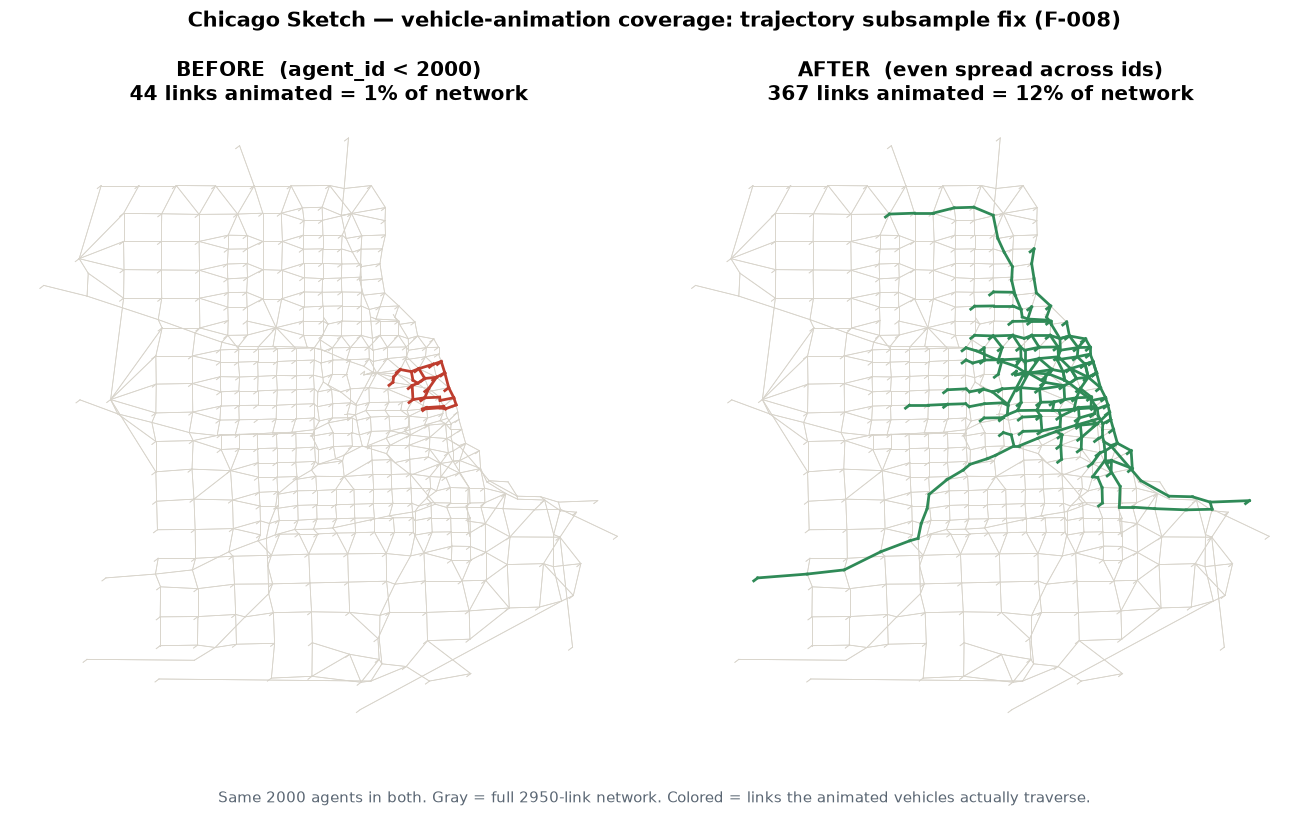
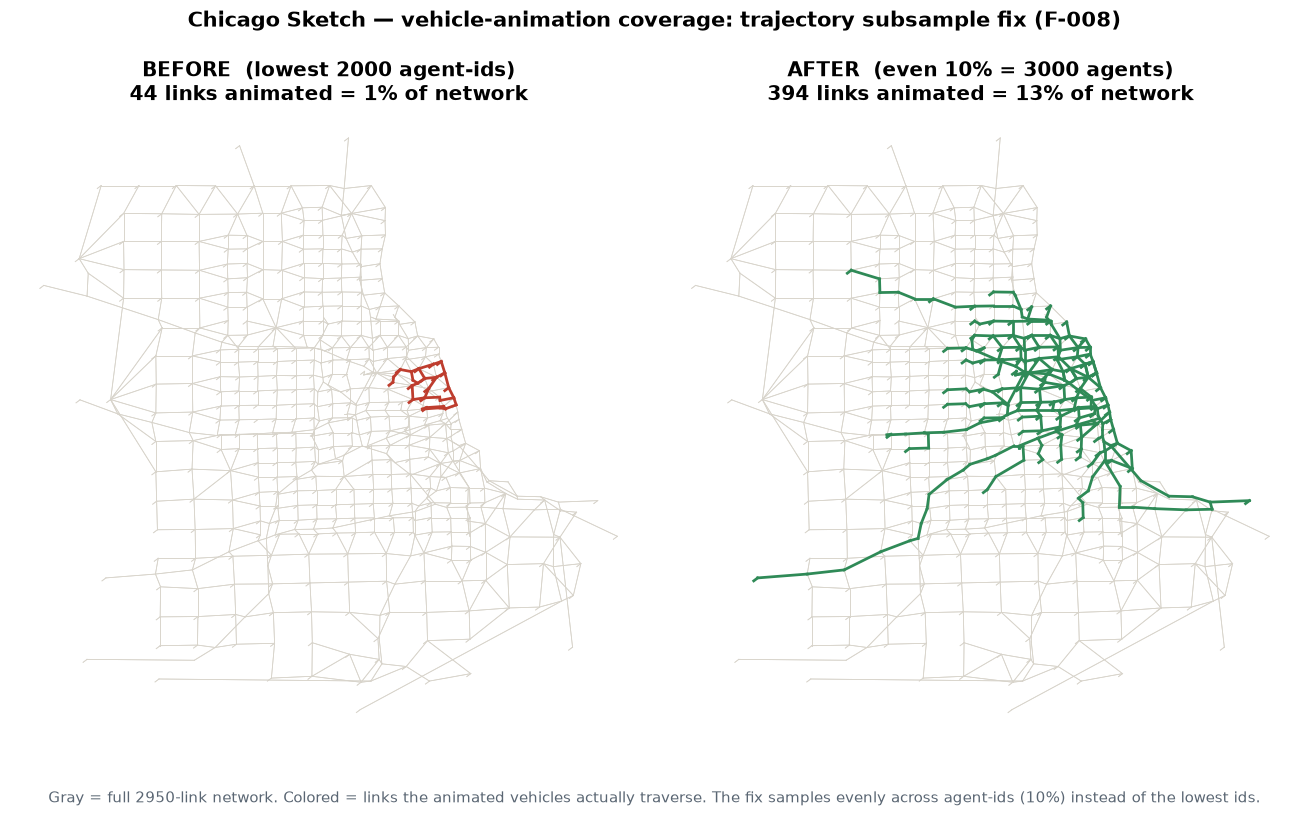
Trajectory: sample ~10% (not flat 2000) + draw connector underlay
Two visualization fixes on top of the earlier trajectory work, from Ziyi's
review of the Chicago animation.

F-008 (extend): animate ~10% of the run's agents instead of a flat 2000 — 2000
was too few for a 30k-agent sample. Capped at max_traj (default raised
2000->10000) so huge runs stay small. Chicago: 3000 agents, 394/2950 links (13%).

F-009 (render): animated vehicles floated off the network because centroid
connectors — which carry ~45% of trajectory hops — were never drawn. draw() now
lays down a thin, dim connector underlay beneath the dots/trails, but only when
there are vehicles to animate (network-only views unchanged). Connectors stay
visually subordinate to real roads.

Also: gitignore generated datasets/**/figures/ (was tracked; regenerable output
like dashboard_layers/portals). Updated qa/FIXES_2026-07-07.md (F-008/F-009 with
before/after maps) and qa/qa_report.html findings.

Per Ziyi's rule: gui4gmns is a visualization layer — only fix what hurts the
visualization; underlying data-source quirks (capacity/speed/lanes) left alone.

diff --git a/qa/qa_report.html b/qa/qa_report.html
@@ -25,7 +25,7 @@ window.RESULTS = {
     release_version: "v0.1.0 — LIVE on PyPI",
     reporter: "Ziyi Zhang + AI agent"
   },
-  summary_note: "v0.1.0 is LIVE on PyPI. Phase 2 QA began on the chicago_sketch showcase and went a level deeper — from 'generates without error' to 'shows the user something meaningful' — which caught two real defects, both now FIXED. F-008: the vehicle animation collapsed into 1% of the network (trajectories were subsampled by lowest agent-id, which cluster by origin/departure); fixed to an even spread across the id space -> 44 -> 367 links (12%), 8.3x coverage, same 2000 agents (see the before/after map). F-007: the quickstart dead-ended for pip-only users and produced a bare network on sioux_falls; README rewritten to lead with chicago_sketch, point pip users at their own folder, and add the 'python -m' fallback for locked-down Windows. Full change log + evidence in qa/FIXES_2026-07-07.md. One open item needs Prof. Zhou: F-006, the empty Chicago corridor contour (ship corridor_speed.csv vs re-mark the coverage table). Proposing two new 'meaningful output' checkpoints (O effective-output, P first-run) so this whole class is caught mechanically. NEXT: adapters + checkpoint-L defect-injection on toys.",
+  summary_note: "v0.1.0 is LIVE on PyPI. Phase 2 QA began on the chicago_sketch showcase and went a level deeper — from 'generates without error' to 'shows the user something meaningful' — which caught two real defects, both now FIXED. F-008: the vehicle animation collapsed into 1% of the network (trajectories were subsampled by lowest agent-id); fixed to an even spread AND raised to ~10% of agents -> 44 -> 394 links (13%), 3000 agents. F-009: vehicles floated off the network because centroid connectors (~45% of trajectory hops) were never drawn; now drawn as a faint underlay beneath the animation. F-007: the quickstart dead-ended for pip-only users and produced a bare network on sioux_falls; README rewritten to lead with chicago_sketch, point pip users at their own folder, and add the 'python -m' fallback for locked-down Windows. Full change log + evidence in qa/FIXES_2026-07-07.md. One open item needs Prof. Zhou: F-006, the empty Chicago corridor contour (ship corridor_speed.csv vs re-mark the coverage table). Proposing two new 'meaningful output' checkpoints (O effective-output, P first-run) so this whole class is caught mechanically. NEXT: adapters + checkpoint-L defect-injection on toys.",
   phases: [
     { id: "P0", name: "Discovery & guard test",  status: "done",    note: "repo cloned · pip install -e . OK · smoke on toys OK · decoy guard test PASSED" },
     { id: "P1", name: "Release v0.1.0 to PyPI",  status: "done",    note: "LIVE on PyPI; OIDC publish green; clean-venv pip install verified" },
@@ -93,8 +93,12 @@ window.RESULTS = {
       issue: "", evidence: ["console: corridor.js 0.00 MB", "qa/FIXES_2026-07-07.md"] },
     { id: "F-008", severity: "major",
       title: "FIXED — vehicle animation collapsed into 1% of the network (trajectory subsample bug)",
-      detail: "load() subsampled trajectories with 'if agent_id >= max_traj: continue' — it kept the 2000 LOWEST agent ids, not a representative sample. Ids are assigned by origin zone / departure order, so the low ids cluster: on Chicago the animation touched only 44/2950 links (1%), leaving the rest of the network visibly empty though it carries traffic. FIX (ai-gen/gui4gmns.py): keep 2000 agents spread evenly across the sorted id space -> 367/2950 links (12%), 8.3x more coverage, same agent count and file size. See qa/FIXES_2026-07-07.md and the before/after map.",
+      detail: "load() subsampled trajectories with 'if agent_id >= max_traj: continue' — it kept the 2000 LOWEST agent ids, not a representative sample. Ids are assigned by origin zone / departure order, so the low ids cluster: on Chicago the animation touched only 44/2950 links (1%). FIX (ai-gen/gui4gmns.py): (1) keep agents spread EVENLY across the sorted id space, and (2) animate ~10% of the run's agents instead of a flat 2000 (default cap raised 2000->10000). Chicago now animates 3000 agents (10% of 30k) over 394/2950 links (13%), ~9x more coverage. File ~0.64 MB, still offline. See qa/FIXES_2026-07-07.md and the before/after map.",
       issue: "", evidence: ["qa/evidence/F008_trajectory_coverage_before_after.png", "qa/FIXES_2026-07-07.md"] },
+    { id: "F-009", severity: "major",
+      title: "FIXED — animated vehicles float off the network (centroid connectors not drawn)",
+      detail: "GMNS centroid connectors (virtual zone-to-road links) are correctly unlabeled and undrawn among the road tiers, but ~45% of trajectory hops traverse one (trips start/end on a connector). With the connector never drawn, a vehicle on it has no line beneath it and appears to float in empty space. On Chicago, 107 connectors carry the sampled trajectories. FIX (draw() JS): when there are vehicles to animate, draw tier-4 connectors as a thin, dim underlay beneath the dots/trails — visually subordinate to real roads, no labels. Network-only views (no trajectories) unchanged. See qa/FIXES_2026-07-07.md and the before/after map.",
+      issue: "", evidence: ["qa/evidence/F009_connector_underlay_before_after.png", "qa/FIXES_2026-07-07.md"] },
     { id: "F-007", severity: "major",
       title: "FIXED — quickstart produced an empty dashboard / didn't run (README)",
       detail: "Three ways the advertised quickstart failed a new user: (1) 'pip install gui4gmns' then 'gui4gmns datasets/01_sioux_falls' fails with 'need node.csv + link.csv' — the pip package ships code only, no datasets/ folder; (2) even from a clone, 01_sioux_falls ships only node/link/demand (no perf, no trajectories) so the first dashboard is a bare network — no MOE, no vehicles; (3) on locked-down Windows the 'gui4gmns' console command is blocked ('Access is denied') with no hint of the python -m fallback. FIX (README Quickstart): point install-and-run at the user's own GMNS folder, state the pip package is code-only + clone for samples, lead the sample with chicago_sketch (vehicles + MOE), label sioux_falls as minimal, and add the 'python -m gui4gmns' fallback. See qa/FIXES_2026-07-07.md.",

diff --git a/ai-gen/gui4gmns.py b/ai-gen/gui4gmns.py
@@ -6,7 +6,8 @@ check) and EMBEDS the data into one double-clickable HTML (works offline; OSM ba
 online). Template blocks follow ai-gen/VIZ_SCHEMA.md so an AI (or a student) can generate custom
 dashboards from the same embedded JSON.
 
-Usage: python gui4gmns.py <dataset_or_run_folder> [-o dashboard.html] [--max-traj 2000]
+Usage: python gui4gmns.py <dataset_or_run_folder> [-o dashboard.html] [--max-traj 10000]
+       (--max-traj is the CAP on animated vehicles; by default ~10% of the run's agents are shown)
 """
 import csv, json, math, os, re, sys
 
@@ -17,7 +18,7 @@ def fnum(v):
     try: return float(v)
     except: return 0.0
 
-def load(folder, max_traj=2000, basemap="osm"):
+def load(folder, max_traj=10000, basemap="osm"):
     D = {"meta": {"folder": os.path.abspath(folder), "checks": [], "basemap": basemap}, "nodes": [], "links": [],
          "bins": [], "td": {}, "trajs": {}, "run": None, "paths": []}
     ck = D["meta"]["checks"]
@@ -95,14 +96,15 @@ def load(folder, max_traj=2000, basemap="osm"):
             ck.append("time-dependent SPEED present (QVDF) -> 'speed' MOE mode enabled")
     tj = rd("agent_trajectory.csv")
     if tj:
-        # Representative subsample: keep agents spread EVENLY across the sorted agent-id space,
-        # not the lowest ids. agent_id is assigned by origin zone / departure order, so the old
-        # `id < max_traj` filter collapsed the animation into one corner of the network (Chicago:
-        # 44/2950 links, 1%). Even spacing restores network-wide coverage (367 links, 12%).
+        # Animate ~10% of the agents, spread EVENLY across the sorted agent-id space — NOT the lowest
+        # ids. agent_id is assigned by origin zone / departure order, so a lowest-id filter collapses
+        # the animation into one corner (Chicago: 44/2950 links, 1%). A representative 10% restores
+        # network-wide coverage; capped at max_traj so the dashboard stays small on very large runs.
         all_ids = sorted({int(fnum(r["agent_id"])) for r in tj})
-        if len(all_ids) > max_traj:
-            step = len(all_ids) / max_traj
-            keep = {all_ids[int(i * step)] for i in range(max_traj)}
+        target = min(max_traj, max(1, round(0.10 * len(all_ids))))
+        if len(all_ids) > target:
+            step = len(all_ids) / target
+            keep = {all_ids[int(i * step)] for i in range(target)}
         else:
             keep = set(all_ids)
         for r in tj:
@@ -111,7 +113,7 @@ def load(folder, max_traj=2000, basemap="osm"):
             D["trajs"].setdefault(a, []).append([round(fnum(r["time_min"]), 2),
                                                  int(fnum(r["link_id"])), r.get("buffer") or ""])
         for ev in D["trajs"].values(): ev.sort()
-        ck.append(f"trajectories subsampled to {len(D['trajs'])} agents (representative, --max-traj)")
+        ck.append(f"trajectories: {len(D['trajs'])} agents animated (~10% of {len(all_ids)}, representative, cap {max_traj})")
     pf = rd("path_flow.csv")
     all_paths = []
     if pf:
@@ -423,6 +425,11 @@ function draw(){cv.width=cv.clientWidth;cv.height=cv.clientHeight;if(!bbox)retur
   const[,w]=styleOf(L,mode,b);ctx.strokeStyle='rgba(0,0,0,0.71)';ctx.lineWidth=w+3;path(L);});
  M.links.forEach(L=>{const t=L[6]||3;if(t>zTier||L[2]<mv)return;
   const[v,w]=styleOf(L,mode,b);ctx.strokeStyle=v<0?'#39424e':ramp(v);ctx.lineWidth=w;path(L);});
+ // faint connector underlay: centroid connectors (tier 4) aren't real roads and stay unlabeled, but
+ // ~half of trajectory hops traverse them — draw them thin+dim ONLY when there are vehicles to animate,
+ // so moving dots/trails have a visible path instead of floating off the drawn network.
+ if(Object.keys(M.trajs).length){ctx.strokeStyle='rgba(150,162,178,0.22)';ctx.lineWidth=0.7;
+  M.links.forEach(L=>{if((L[6]||3)===4)path(L);});}
  if(document.getElementById('checks').checked)
   M.links.forEach(L=>{if((L[6]||3)===1&&L[2]===0){ctx.strokeStyle='#ff4df0';ctx.lineWidth=2.5;path(L);}});
  if(document.getElementById('demand')&&document.getElementById('demand').checked&&DEM.lines){
@@ -615,7 +622,7 @@ def _export_portals(folder):
     except Exception as e:
         print(f"  (portals skipped — {type(e).__name__}: {str(e)[:60]})")
 
-def generate(folder, out=None, basemap="osm", max_traj=2000, split=True, figures=True, portals=True):
+def generate(folder, out=None, basemap="osm", max_traj=10000, split=True, figures=True, portals=True):
     """The gui4gmns AI-Gen core: GMNS run folder -> self-contained dashboard.html.
     Importable like plot4gmns:  from gui4gmns import generate; generate('datasets/01_sioux_falls').
     figures=True also writes a static PNG figure set to <folder>/figures/; portals=True writes the
@@ -671,7 +678,7 @@ def main():
     if not args: sys.exit(__doc__)
     folder = args[0]
     out = args[args.index("-o") + 1] if "-o" in args else None
-    mt = int(args[args.index("--max-traj") + 1]) if "--max-traj" in args else 2000
+    mt = int(args[args.index("--max-traj") + 1]) if "--max-traj" in args else 10000
     bm = args[args.index("--basemap") + 1] if "--basemap" in args else "osm"   # osm | satellite | none
     generate(folder, out=out, basemap=bm, max_traj=mt, split="--single" not in args,
              figures="--no-figures" not in args, portals="--no-portals" not in args)

diff --git a/qa/FIXES_2026-07-07.md b/qa/FIXES_2026-07-07.md
@@ -20,45 +20,69 @@ animated vehicles actually traverse.
 
 ![Trajectory coverage before/after](evidence/F008_trajectory_coverage_before_after.png)
 
-| | links animated | % of network |
-|---|:-:|:-:|
-| **Before** (`agent_id < max_traj`) | 44 | 1% |
-| **After** (even spread across ids) | 367 | 12% |
+| | agents animated | links animated | % of network |
+|---|:-:|:-:|:-:|
+| **Before** (lowest 2000 ids) | 2000 | 44 | 1% |
+| **After** (even 10% spread) | 3000 | 394 | 13% |
 
 **Root cause.** `ai-gen/gui4gmns.py` (`load()`) subsampled trajectories with `if agent_id >= max_traj:
 continue` — i.e. it kept the **2000 lowest agent ids**, not a representative sample. Agent ids are
 assigned by origin zone / departure order, so the lowest ids are spatially clustered. The file holds
 30,000 agents; keeping ids 0–1999 touched only 44 links.
 
-**The change.** Keep 2000 agents spread **evenly across the sorted id space** instead of the lowest ids:
+**Two changes.**
+1. **Representative sample** — keep agents spread **evenly across the sorted id space**, not the lowest ids.
+2. **Percentage, not a flat count** — animate **~10% of the run's agents** (a flat 2000 was too few for a
+   30k-agent sample), capped at `max_traj` (default raised 2000 → 10 000) so very large runs stay small.
 
 ```python
-# before
-for r in tj:
-    a = int(fnum(r["agent_id"]))
-    if a >= max_traj: continue
-    ...
-
 # after
 all_ids = sorted({int(fnum(r["agent_id"])) for r in tj})
-if len(all_ids) > max_traj:
-    step = len(all_ids) / max_traj
-    keep = {all_ids[int(i * step)] for i in range(max_traj)}
+target = min(max_traj, max(1, round(0.10 * len(all_ids))))   # ~10%, capped
+if len(all_ids) > target:
+    step = len(all_ids) / target
+    keep = {all_ids[int(i * step)] for i in range(target)}
 else:
     keep = set(all_ids)
-for r in tj:
-    a = int(fnum(r["agent_id"]))
-    if a not in keep: continue
-    ...
 ```
 
-**Effect.** Same agent count, same file size (~0.43 MB), same offline behavior — but the animated
-sample now spans agent ids 0–29 985 and covers **8.3× more of the network** (44 → 367 links). No
-change for datasets with ≤ `max_traj` agents (all are kept, as before).
+**Effect.** Chicago now animates 3000 agents (10% of 30 000) spanning ids 0–29 985 and covering **394
+links (13%) vs 44 (1%)** — ~9× more of the network. File ~0.64 MB (was 0.43 MB), still well offline.
+Datasets with fewer agents than the target keep all of them, as before.
 
 ---
 
-## Fix 2 — Quickstart produced an empty dashboard / didn't run at all  (F-007, docs fix)
+## Fix 2 — Animated vehicles float off the network  (F-009, render fix)
+
+**Problem (what the user sees).** Even with a good trajectory sample, many moving vehicles / trail
+segments appear to run through **empty space**, not on any drawn road — especially where trips enter
+or leave the network.
+
+**Before / after.** Red = the centroid connectors that actually carry animated vehicles.
+
+![Connector underlay before/after](evidence/F009_connector_underlay_before_after.png)
+
+**Root cause.** GMNS networks use **centroid connectors** — virtual links joining a zone centroid to the
+real road it feeds. They aren't real roads, so the dashboard (correctly) leaves them **unlabeled and
+undrawn** among the road tiers. But **~45% of trajectory hops traverse a connector** (a trip starts and
+ends on one). With the connector never drawn, a vehicle on it has no line beneath it → it floats. On
+Chicago, 107 connectors carry the sampled trajectories.
+
+**The change (`draw()` in the embedded JS).** When — and only when — there are vehicles to animate, draw
+the connector links (tier 4) as a **thin, dim underlay** beneath the moving dots/trails:
+
+```js
+if(Object.keys(M.trajs).length){
+  ctx.strokeStyle='rgba(150,162,178,0.22)'; ctx.lineWidth=0.7;
+  M.links.forEach(L=>{if((L[6]||3)===4)path(L);});
+}
+```
+
+**Effect.** Vehicles now sit on a visible (faint) path everywhere. Connectors stay visually subordinate
+to real roads — thin and dim, no labels — so the map still reads as a road network, and network-only
+views (no trajectories, e.g. Sioux Falls) are unchanged.
+
+## Fix 3 — Quickstart produced an empty dashboard / didn't run at all  (F-007, docs fix)
 
 **Problem (what the user sees).** Three distinct ways the advertised quickstart let a new user down:
 